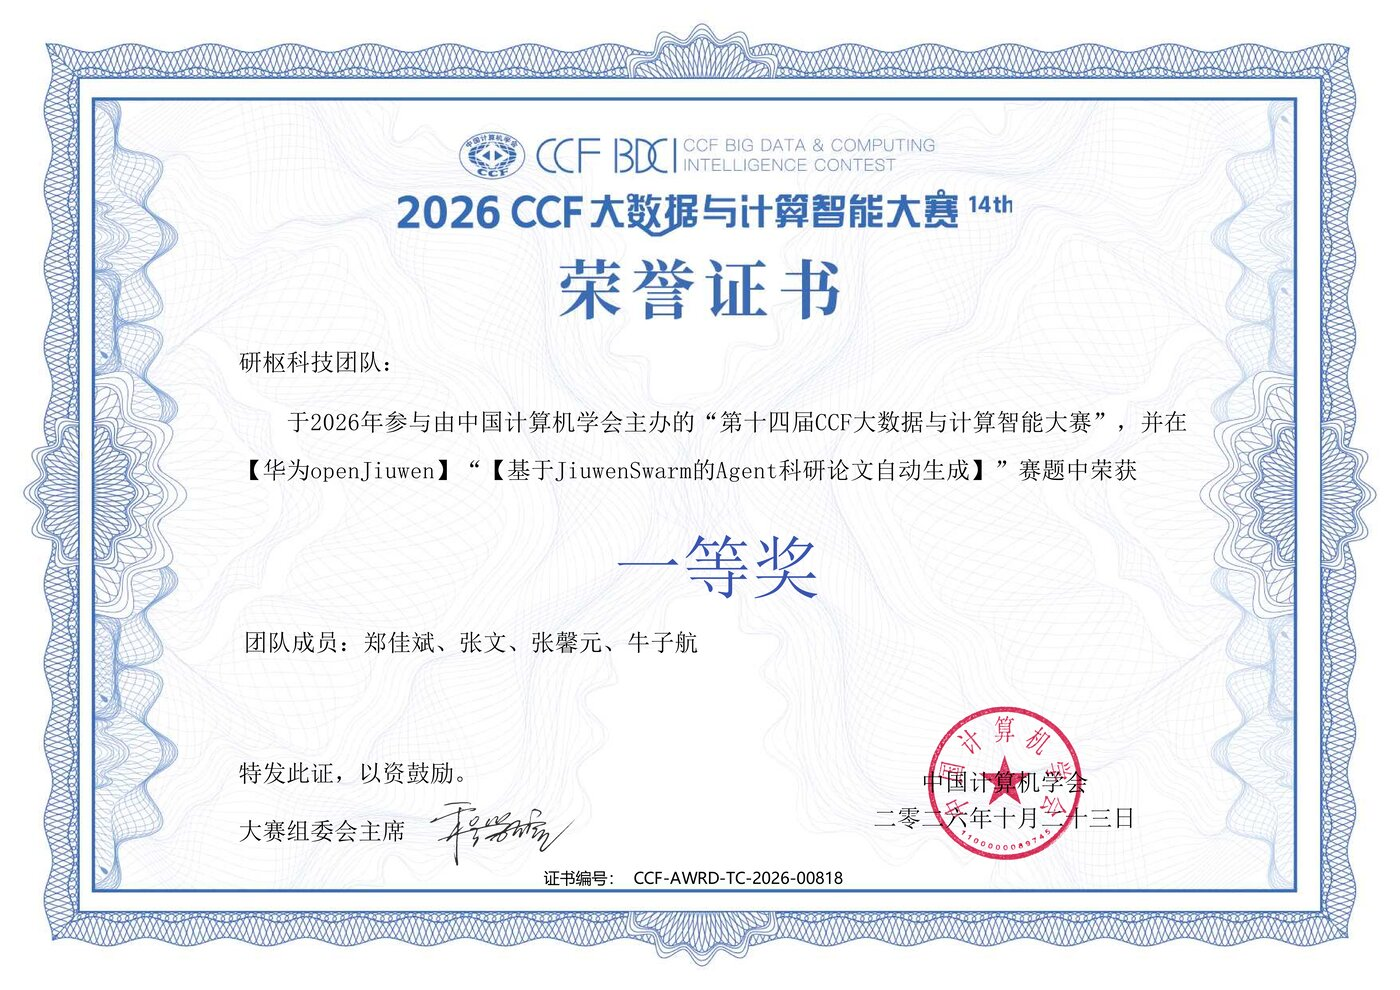
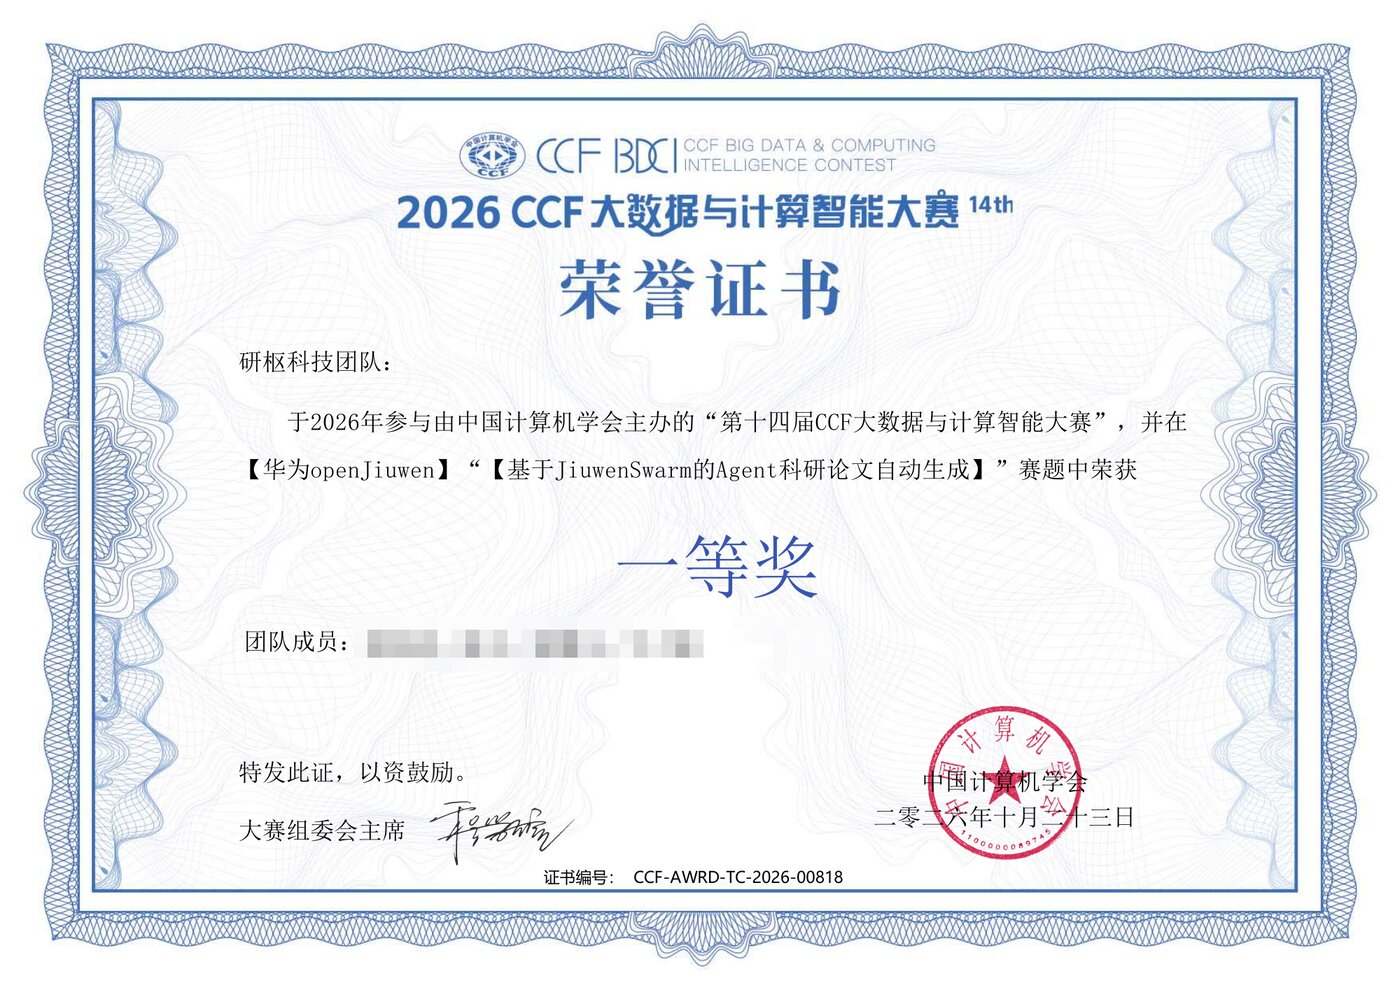
README: redact team member names; blur names on the certificate (#5)

diff --git a/README.en.md b/README.en.md
@@ -107,7 +107,7 @@ Full deployment and a human-in-the-loop walkthrough: [docs/deploy-and-hitl.zh.md
 
 ## Team
 
-SciAnchor is developed and maintained by Zhice Technology (Beijing) Co., Ltd. Contest team "Yanshu Tech": Jiabin Zheng (lead), Wen Zhang, Xinyuan Zhang, Zihang Niu, from Peking University School of Computer Science, Peking University Health Science Center, and Communication University of China, spanning AI, clinical medicine and data engineering.
+SciAnchor is developed and maintained by Zhice Technology (Beijing) Co., Ltd. Contest team "Yanshu Tech" members come from Peking University School of Computer Science, Peking University Health Science Center, and Communication University of China, spanning AI, clinical medicine and data engineering.
 
 ## License
 

diff --git a/README.md b/README.md
@@ -106,7 +106,7 @@ claude mcp add research-harness \
 
 ## 团队
 
-SciAnchor 由执策科技（北京）有限公司开发维护。参赛团队「研枢科技」：郑佳斌（队长）、张文、张馨元、牛子航，成员来自北京大学计算机学院、北京大学医学部与中国传媒大学，覆盖人工智能、临床医学与数据工程。
+SciAnchor 由执策科技（北京）有限公司开发维护。参赛团队「研枢科技」成员来自北京大学计算机学院、北京大学医学部与中国传媒大学，覆盖人工智能、临床医学与数据工程。
 
 ## License
 
